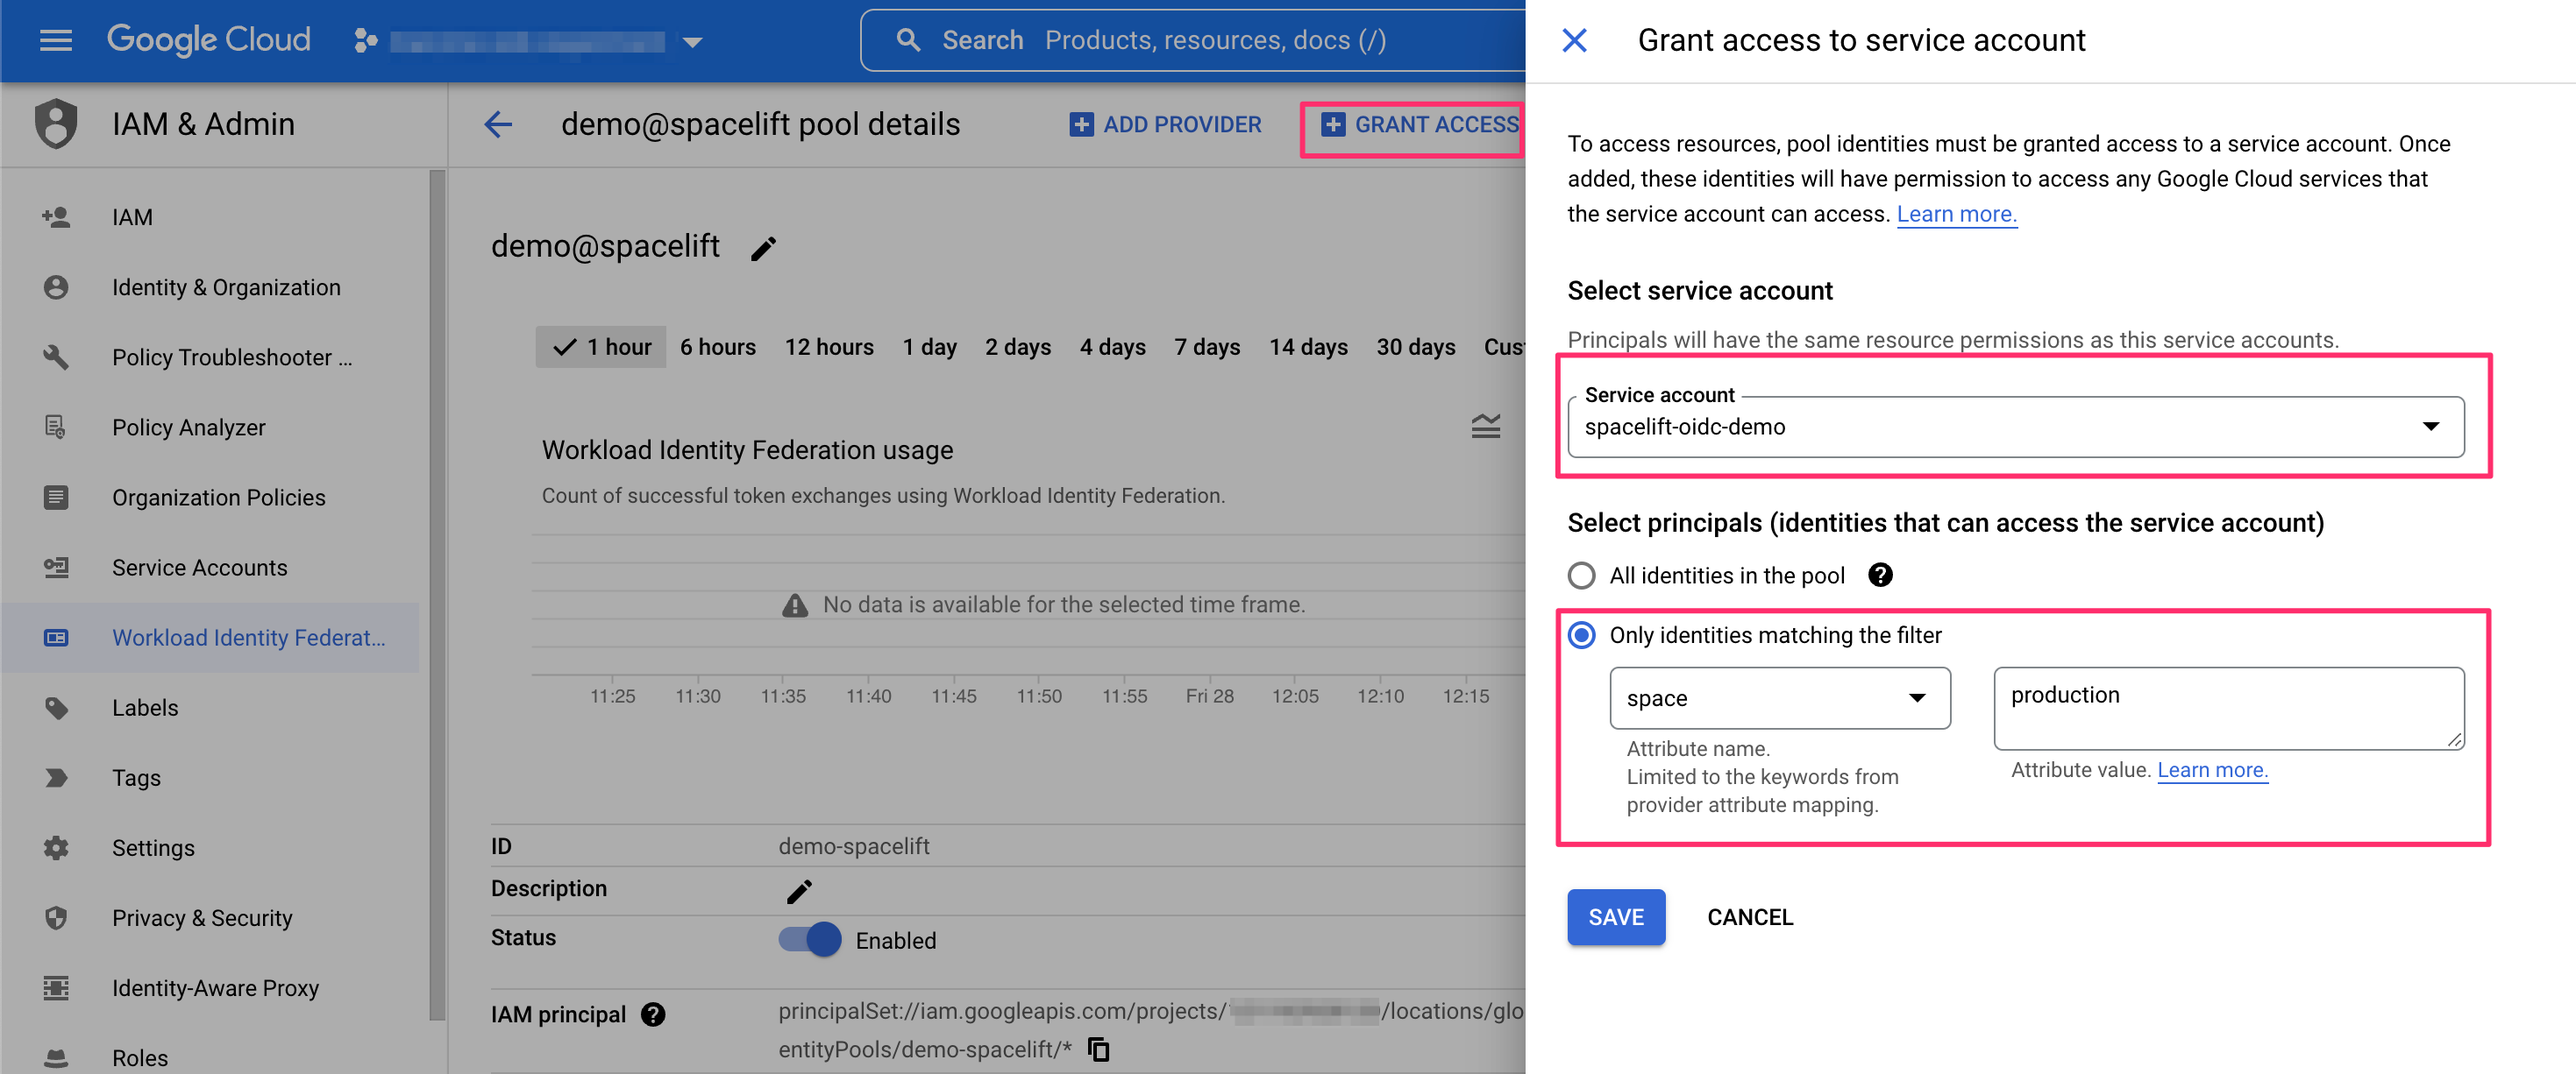
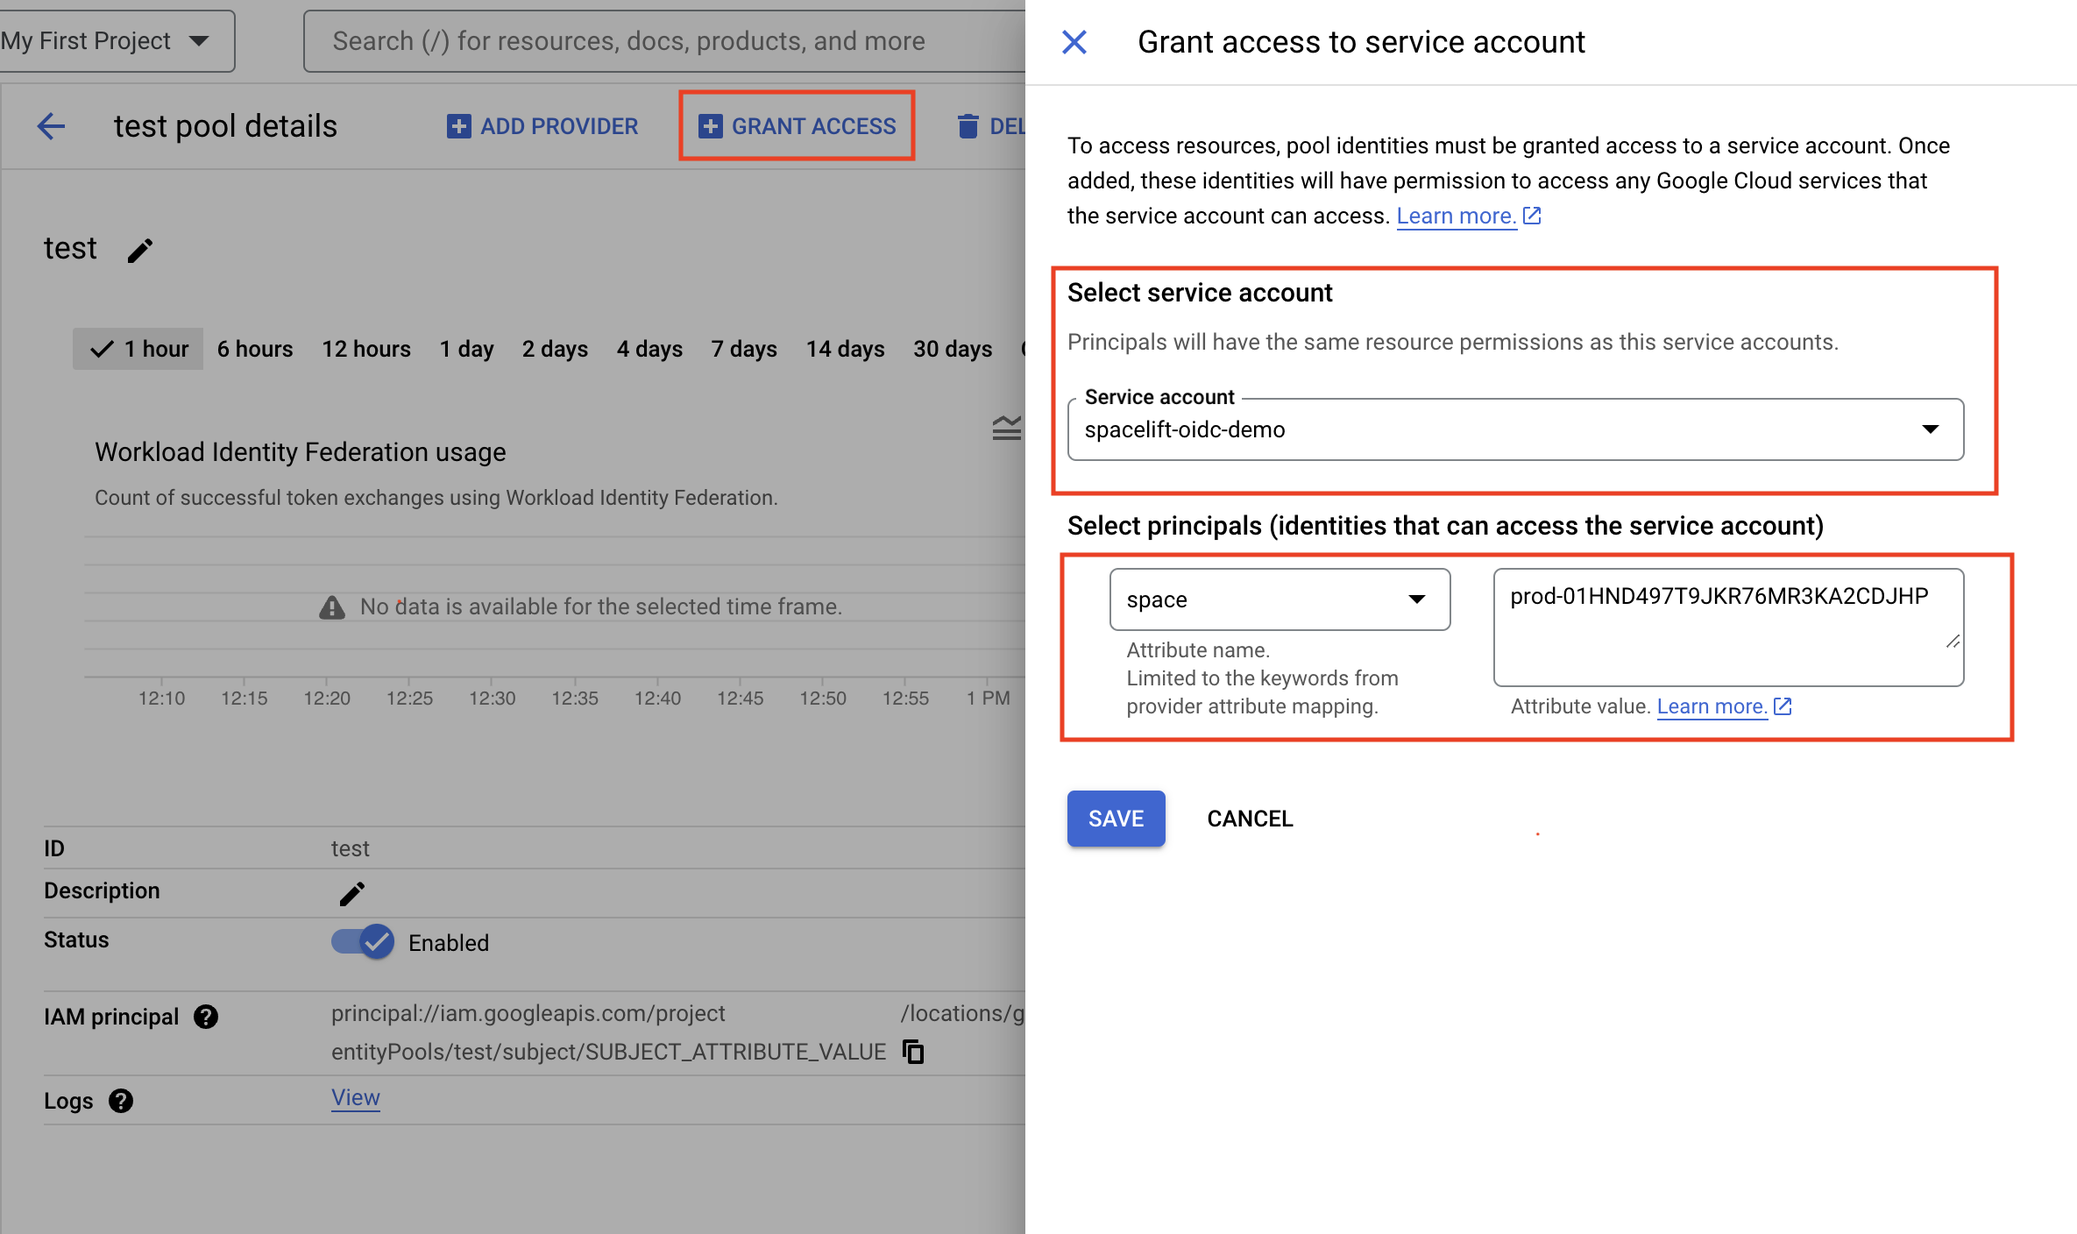
updated gcp instructions

diff --git a/docs/integrations/cloud-providers/oidc/gcp-oidc.md b/docs/integrations/cloud-providers/oidc/gcp-oidc.md
@@ -11,9 +11,15 @@ To do this you need to perform a number of steps within GCP:
 
 Let's go through these steps one by one. First, you will want to go to the [GCP console](https://console.cloud.google.com/){: rel="nofollow"} and select the IAM service, then click on the "Workload Identity Federation" link in the left-hand menu:
 
+If this is your first time creating a Workload Identity Pools, you will click on the _Get Started_ button.
+
+![GCP Workload Identity Federation Get Started](../../../assets/screenshots/oidc/gcp-workload-identity-federation-get-started.png)
+
+If you have created a Workload Identity Pool before, your screen should look like:
+
 ![GCP Workload Identity Federation](../../../assets/screenshots/oidc/gcp-workload-identity-federation.png)
 
-There, you will want to click on the _Create pool_ button, which will take you to the pool creation form. First, give your new identity pool a name and optionally set a description. The next step is more interesting - you will need to set up an identity provider. The name is pretty much arbitrary but the rest of the fields are important to get right. The Issuer URL needs to be set to the URL of your Spacelift account (including the scheme). You will want to manually specify allowed audiences. There's just one you need - the hostname of your Spacelift account. Here is what a properly filled out form would look like:
+From there, you will want to click on the _Create pool_ button, which will take you to the pool creation form. First, give your new identity pool a name and optionally set a description. The next step is more interesting - you will need to set up an identity provider. The name is pretty much arbitrary but the rest of the fields are important to get right. The Issuer URL needs to be set to the URL of your Spacelift account (including the scheme). You will want to manually specify allowed audiences. There's just one you need - the hostname of your Spacelift account. Here is what a properly filled out form would look like:
 
 ![Adding workload identity provider to GCP](../../../assets/screenshots/oidc/gcp-add-provider.png)
 
@@ -30,9 +36,25 @@ To restrict which identities can authenticate using your workload identity pool 
 !!! warning
     If your Stack ID is too long, it may exceed the threshold set by Google for the `google.subject` mapping. In that case, you can use a different [Custom claim](README.md#custom-claims) to create the mapping.
 
-Last but not least, we will want to grant the workload identity pool the ability to impersonate the [service account](https://cloud.google.com/iam/docs/service-accounts){: rel="nofollow"} we will be using. Assuming we already have a service account, let's allow any token claiming to originate from the `production` space in our Spacelift account to impersonate it:
+Last but not least, we will want to grant the workload identity pool the ability to impersonate the [service account](https://cloud.google.com/iam/docs/service-accounts){: rel="nofollow"} we will be using. **Assuming we already have a service account**, let's allow any token claiming to originate from the `prod` space in our Spacelift account to impersonate it:
 
 ![GCP granting access to service account](../../../assets/screenshots/oidc/gcp-grant-access.png)
+
+Make sure you use the full space id and not the space name.
+
+## Downloading the Configuration File
+
+After clicking save on the previous screen, you will be brought to download the configuration file. Here, you will need to change the OIDC ID token path to `/mnt/workspace/spacelift.oidc` and change the format to json.
+
+![GCP config file](../../../assets/screenshots/oidc/gcp-config-download.png)
+
+The file that is downloaded will include the format type in the credentials source. You can remove this so you credentials section just contains:
+
+```json
+ "credential_source": {
+    "file": "/mnt/workspace/spacelift.oidc"
+  }
+```
 
 ## Configuring the Terraform Provider
 
